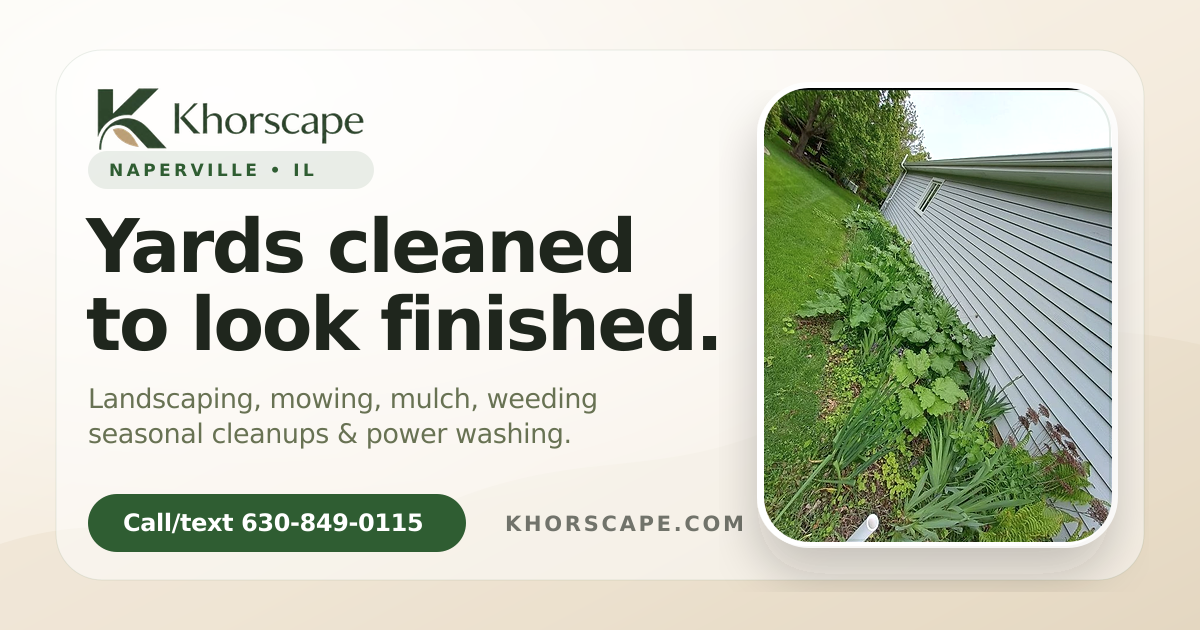
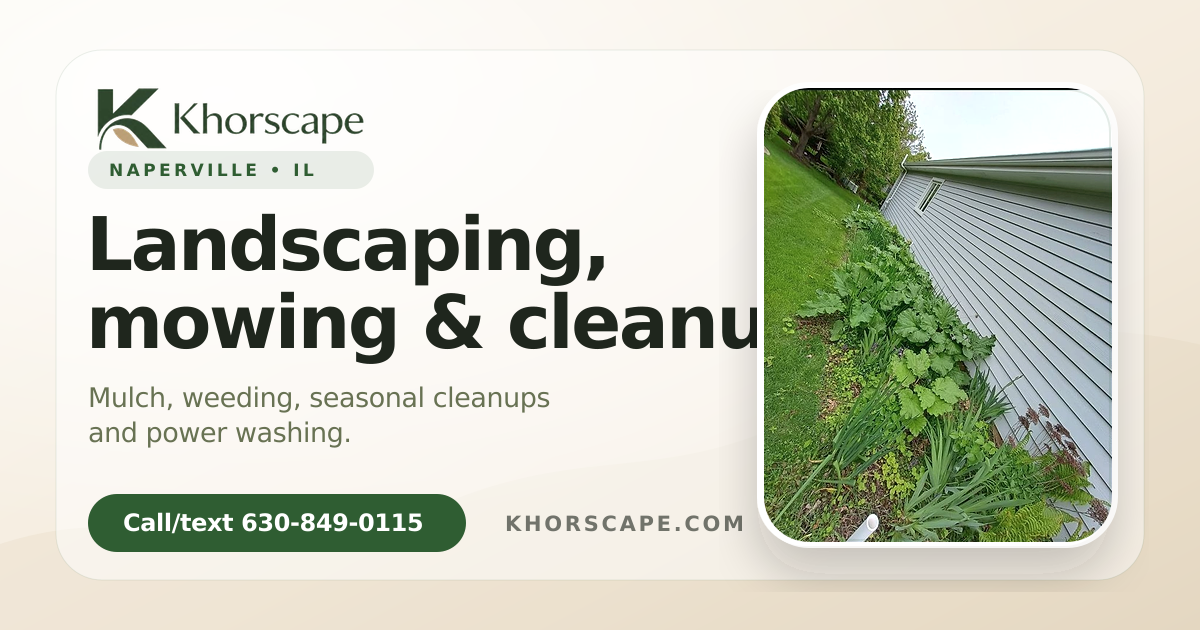
fix: replace awkward social preview slogan

Changed region(s): [[0.0617, 0.3317, 0.6475, 0.573], [0.0617, 0.6032, 0.4933, 0.7238]]

diff --git a/src/data/site.ts b/src/data/site.ts
@@ -11,7 +11,7 @@ export const site = {
   socialTitle: 'Khorscape | Naperville Landscaping & Yard Cleanups',
   socialDescription:
     'Mowing, mulch, weeding, seasonal cleanups, and power washing. Call or text 630-849-0115.',
-  socialImage: '/social/khorscape-preview-v4.png',
+  socialImage: '/social/khorscape-preview-v5.png',
   serviceArea:
     'Serving Naperville and nearby areas including Lisle, Aurora, Warrenville, Bolingbrook, Plainfield, Woodridge, Wheaton, and Downers Grove.',
   towns: [
